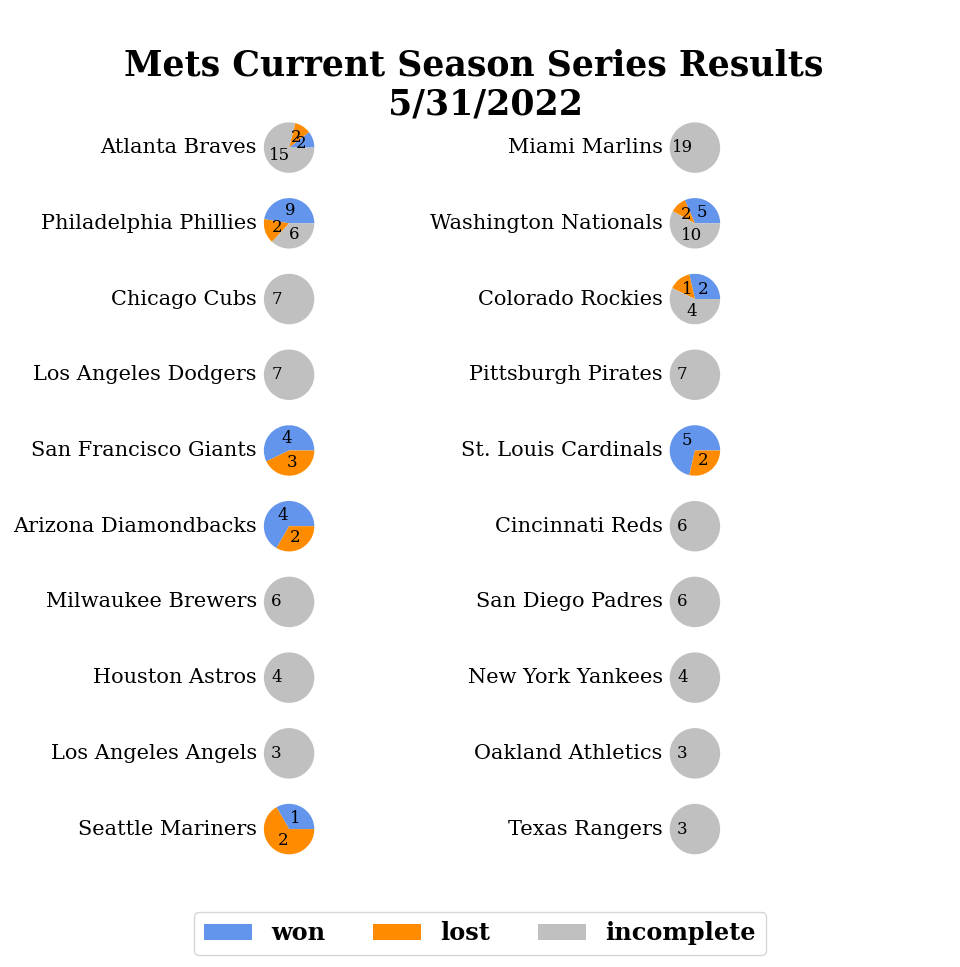
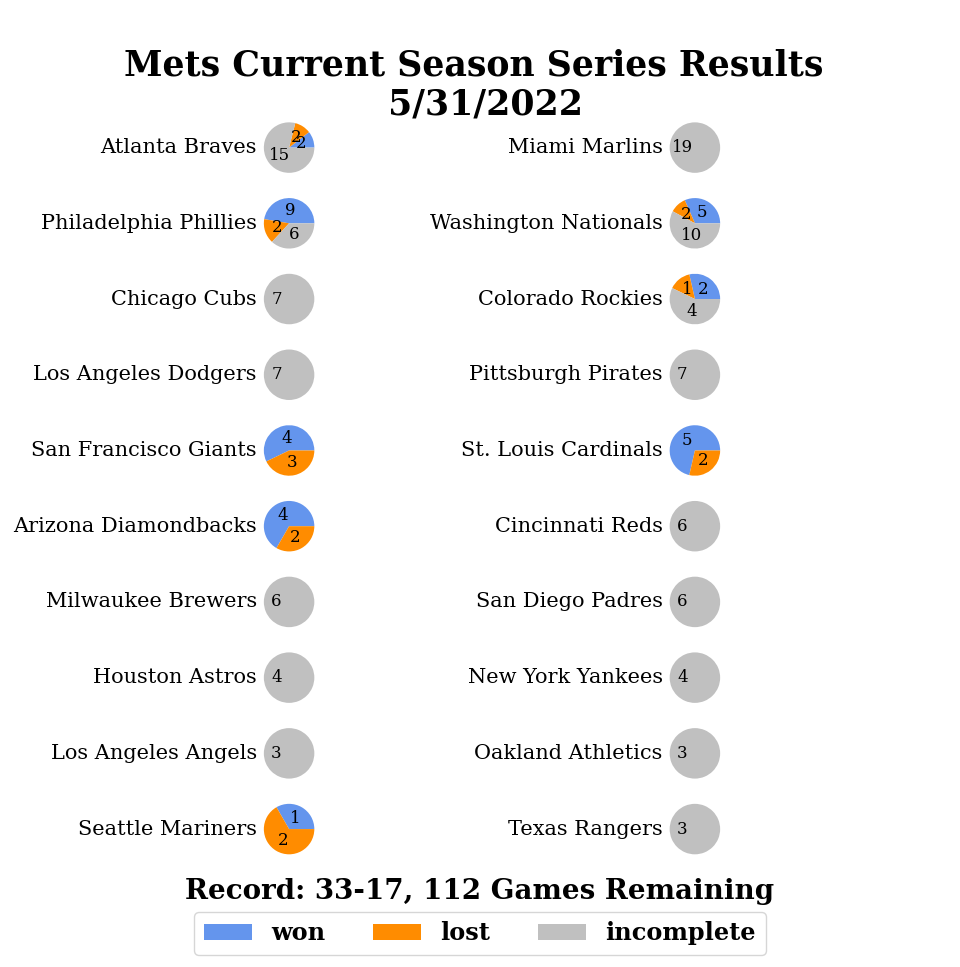
added Mets current record

Changed region(s): [[0.1875, 0.8997, 0.8125, 0.9307]]

diff --git a/mets-season-series/piecharts.py b/mets-season-series/piecharts.py
@@ -65,16 +65,23 @@ df_teams.sort_values(['total', 'team'], ascending=[False, True], inplace=True, i
 
 
 
+_, won, lost, incomplete, total = df_teams.sum().values
+
+won = int(won)
+lost = int(lost)
+incomplete = int(incomplete)
+
+
 fig, axs = plt.subplots(int(len(team_set)/2), 2, figsize = (8, 70))
 
 for index, row in df_teams.iterrows():
-    # row.plot(kind='pie', ax=axs[index])
+
     absv = lambda v: absval(v, row)
     axs[index//2][index%2].pie(row.loc[['won', 'lost', 'incomplete']],
                                  colors=['cornflowerblue', 'darkorange', 'silver'],
                                  autopct=absv, pctdistance=0.5,
                                  textprops={'family': "serif", 'size':'large'})
-    # axs[index].set_ylabel(row.loc[['team']].values[0])
+
     axs[index//2][index%2].text(-0.01, 0.5, row.loc[['team']].values[0], va='center', 
                     ha='right', fontsize=15,transform=axs[index//2][index%2].transAxes,
                     fontname="serif")
@@ -82,8 +89,12 @@ for index, row in df_teams.iterrows():
 fig.legend(labels=['won', 'lost', 'incomplete'], loc=8, ncol=3,
              prop={'family': "serif", 'size':'xx-large', 'weight': 'bold'})
 
-# plt.savefig('mets-2022-teams.jpg')
+
 fig.suptitle('Mets Current Season Series Results \n 5/31/2022', fontname="serif",
             weight='bold', size=25, y=0.95)
+
+record_str = f"Record: {won}-{lost}, {incomplete} Games Remaining"
+fig.text(0.5, 0.07, record_str, horizontalalignment='center',
+         weight='bold', size=20, fontname='serif')
 plt.show()
 
